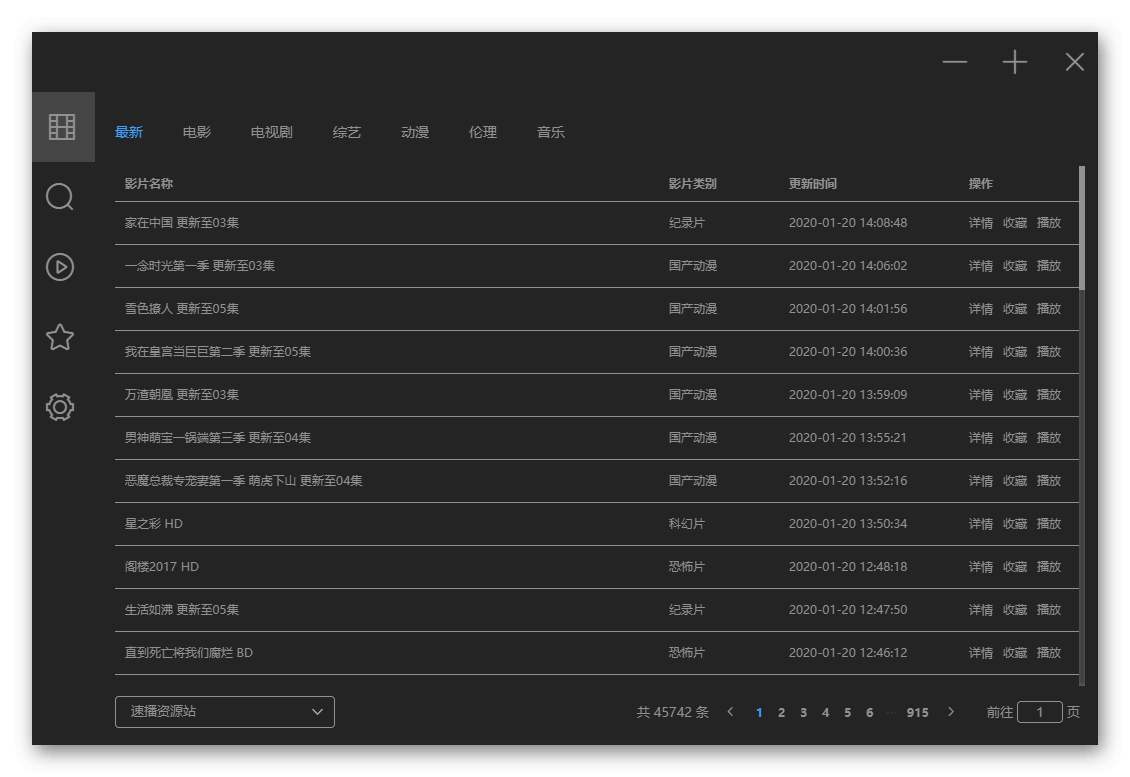
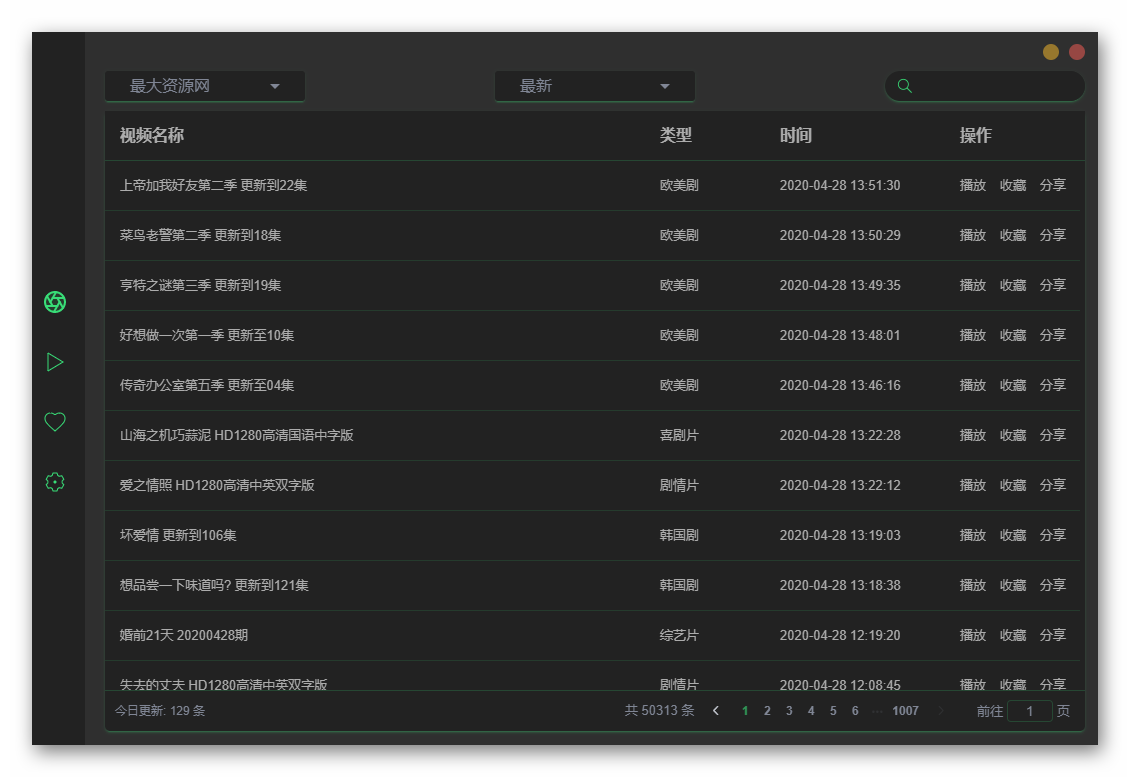
🎭 修改主题里显示的图片

diff --git a/src/store/index.js b/src/store/index.js
@@ -5,7 +5,7 @@ Vue.use(Vuex)
 
 export default new Vuex.Store({
   state: {
-    view: 'Play',
+    view: 'Film',
     theme: 'light',
     site: 'zuidazy',
     language: 'zhCn',

diff --git a/README.md b/README.md
@@ -16,14 +16,12 @@
 
 ### 新版
 
-新版本: v0.9.9 已开发完, 现进行内测. [内侧公告](https://github.com/Hunlongyu/ZY-Player/issues/24)
+新版本: v0.9.x 已开发完, 现进行内测. [内测公告](https://github.com/Hunlongyu/ZY-Player/issues/24)
 
 [点击这里可以查看开发计划](https://github.com/Hunlongyu/ZY-Player/projects/3). 
 
-大家有什么新的需求建议欢迎踊跃提出[点击这里提意见](https://github.com/Hunlongyu/ZY-Player/issues/14).
-## v0.9.1 版本：
+大家有什么新的需求建议欢迎踊跃提出[点击这里提意见](https://github.com/Hunlongyu/ZY-Player/issues/14)
 
-#### 下载 (目前最新版: v0.9.1):
 1. [Github -- 官方下载](https://github.com/Hunlongyu/ZY-Player/releases)
 
 2. [蓝奏云 -- 快速下载](https://www.lanzous.com/b04s6a3re) 密码:95px
